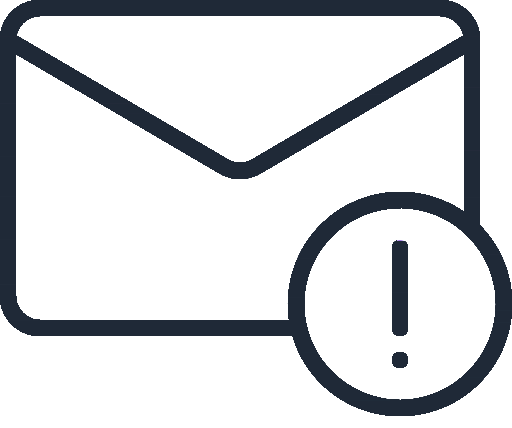
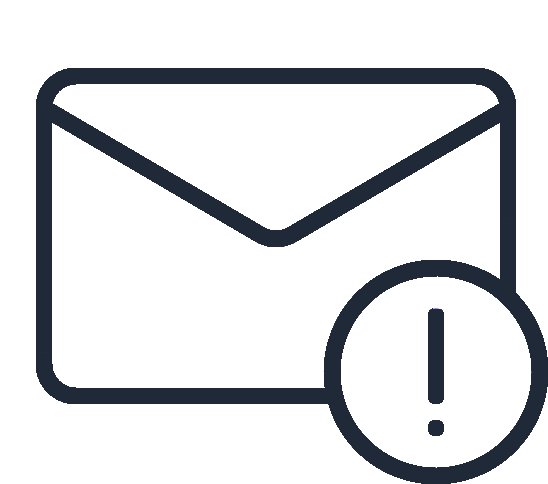
Project Requests - SPAM flag OK

Changed region(s): [[0.0, 0.0, 1.0, 1.0]]

diff --git a/client/src/components/ProjectRequestsDetails.jsx b/client/src/components/ProjectRequestsDetails.jsx
@@ -7,6 +7,7 @@ import useDelete from "../hooks/useDelete";
 import Loader from "./../Utils/Loader";
 import Error from "./../Utils/Error";
 import usePatch from "../hooks/usePatch";
+import FloatingButton from "../Utils/FloatingButton";
 
 function ProjectRequestsDetails() {
   const { requestId } = useParams();
@@ -14,15 +15,6 @@ function ProjectRequestsDetails() {
   const [isLoading, setIsLoading] = useState(false);
   const [error, setError] = useState("");
   const navigate = useNavigate();
-
-  const {
-    handler: handleDelete,
-    isLoadingDelete,
-    errorDelete,
-  } = useDelete({
-    redirectTo: "/admin/dashboard/project-requests",
-    path: `/api/v1/project-requests/${requestId}`,
-  });
 
   const {
     handler: handleArchive,
@@ -63,18 +55,21 @@ function ProjectRequestsDetails() {
   return (
     <div className="relative flex w-full grow flex-col items-center justify-center gap-6 px-10 font-poppins">
       {isLoading && <Loader />}
-      {isLoadingDelete && <Loader />}
+
       {error && (
         <Error path={"/admin/dashboard/project-requests"} message={error} />
       )}
-      {errorDelete && (
-        <Error
-          path={"/admin/dashboard/project-requests"}
-          message={errorDelete}
-        />
-      )}
-      {!isLoading && !isLoadingDelete && !error && !errorDelete && (
+
+      {!isLoading && !error && (
         <>
+          <FloatingButton
+            path={"spam"}
+            icon={"spam-icon.png"}
+            size={"size-[60px]"}
+            bgColor={"bg-yellow-400"}
+            padding={"p-3"}
+            position={"top-[10%] right-6"}
+          />
           <Header projectRequest={projectRequest} />
           <CurrentProjectButton
             projectRequest={projectRequest}
@@ -140,11 +135,7 @@ function ProjectRequestsDetails() {
             position={"top-2 left-[10%]"}
             path={"/admin/dashboard/project-requests"}
           />
-          <Outlet
-            context={{
-              handleDelete,
-            }}
-          />
+          <Outlet />
         </>
       )}
     </div>
@@ -154,13 +145,13 @@ function ProjectRequestsDetails() {
 function Header({ projectRequest }) {
   return (
     <>
-      <div className="flex flex-col items-center justify-center text-gray-800">
+      <div className=" flex flex-col items-center justify-center text-gray-800">
         <h2 className="text-xl ">{projectRequest?.name.toUpperCase()}</h2>
         <p>
           {projectRequest?.position} em {projectRequest?.company}
         </p>
       </div>
-      <div className="flex flex-col items-center justify-center gap-1">
+      <div className="mt-8 flex flex-col items-center justify-center gap-1">
         <p
           className={`font-poppins text-xl ${projectRequest?.isAnswered ? "text-blue-500" : "italic text-red-600"}`}
         >

diff --git a/client/src/App.jsx b/client/src/App.jsx
@@ -25,8 +25,9 @@ import EditCodiceContent from "./components/EditCodiceContent";
 import EditCodiceCategory from "./components/EditCodiceCategory";
 import ProjectRequests from "./components/ProjectRequests";
 import ProjectRequestsDetails from "./components/ProjectRequestsDetails";
-import DeleteProjectRequest from "./components/DeleteProjectRequest";
 import ProjectRequestsArchive from "./components/ProjectRequestsArchive";
+import ProjectRequestSpam from "./components/ProjectRequestSpam";
+import ProjectsSchedule from "./components/ProjectsSchedule";
 
 function App() {
   const isMobile = window.innerWidth < 640;
@@ -42,6 +43,7 @@ function App() {
         <Route path="/admin/dashboard" element={<Dashboard />}>
           <Route index element={<Navigate replace to={"overview"} />} />
           <Route path="overview" element={<DashboardOverview />} />
+
           <Route path="works" element={<WorksPage />} />
           <Route path="create-work" element={<CreateWork />} />
           <Route path="works/:id" element={<WorkDetails />}>
@@ -52,6 +54,7 @@ function App() {
             <Route path="add-section" element={<AddSection />} />
             <Route path="colors" element={<ColorPicker />} />
           </Route>
+
           <Route path="codice" element={<CodiceDashboard />}>
             <Route path="at" element={<CodiceFilters />} />
           </Route>
@@ -66,16 +69,21 @@ function App() {
           <Route path="codice/write" element={<CreateCodice />}>
             <Route path="setImage" element={<SetTiptapImage />} />
           </Route>
+
           <Route path="project-requests" element={<ProjectRequests />} />
           <Route
             path="project-requests/archive"
             element={<ProjectRequestsArchive />}
           />
           <Route
+            path="project-requests/schedule"
+            element={<ProjectsSchedule />}
+          />
+          <Route
             path="project-requests/:requestId"
             element={<ProjectRequestsDetails />}
           >
-            <Route path="delete" element={<DeleteProjectRequest />} />
+            <Route path="spam" element={<ProjectRequestSpam />} />
           </Route>
         </Route>
       </Routes>

diff --git a/client/src/components/ProjectRequestSpam.jsx b/client/src/components/ProjectRequestSpam.jsx
@@ -1,0 +1,62 @@
+import { useParams } from "react-router-dom";
+import RouterModal from "../Utils/RouterModal";
+import Button from "../Utils/Button";
+import useDelete from "../hooks/useDelete";
+import Loader from "../Utils/Loader";
+import Error from "../Utils/Error";
+
+function ProjectRequestSpam() {
+  const { requestId } = useParams();
+
+  const {
+    handler: handleDelete,
+    isLoading,
+    error,
+  } = useDelete({
+    redirectTo: "/admin/dashboard/project-requests",
+    path: `/api/v1/project-requests/${requestId}`,
+  });
+
+  return (
+    <RouterModal height="h-auto" closeTop="top-4" path={-1}>
+      <div className="flex w-full flex-col items-center justify-center gap-4 px-4 py-10 text-center">
+        <h2 className="text-lg text-gray-800">
+          Marcar esse projeto como SPAM?
+        </h2>
+        {isLoading && <Loader size={100} margin="my-4" />}
+        {error && (
+          <Error
+            message={error}
+            path={`/admin/dashboard/project-requests/${requestId}`}
+          />
+        )}
+        {!isLoading && !error && (
+          <>
+            <p className="text-sm text-gray-500">O pedido será excluído.</p>
+            <div className="my-4 flex flex-row items-center justify-center gap-4">
+              <Button
+                type="action"
+                bgColor="bg-yellow-400"
+                textColor="text-gray-800"
+                onAction={() => handleDelete()}
+              >
+                SPAM
+              </Button>
+              <Button
+                type="back"
+                path={`/admin/dashboard/project-requests/${requestId}`}
+              >
+                Voltar
+              </Button>
+            </div>
+            <p className="text-sm text-gray-500">
+              Essa ação não pode ser desfeita.
+            </p>
+          </>
+        )}
+      </div>
+    </RouterModal>
+  );
+}
+
+export default ProjectRequestSpam;

diff --git a/client/src/components/ProjectsSchedule.jsx b/client/src/components/ProjectsSchedule.jsx
@@ -1,0 +1,5 @@
+function ProjectsSchedule() {
+  return <div></div>;
+}
+
+export default ProjectsSchedule;
